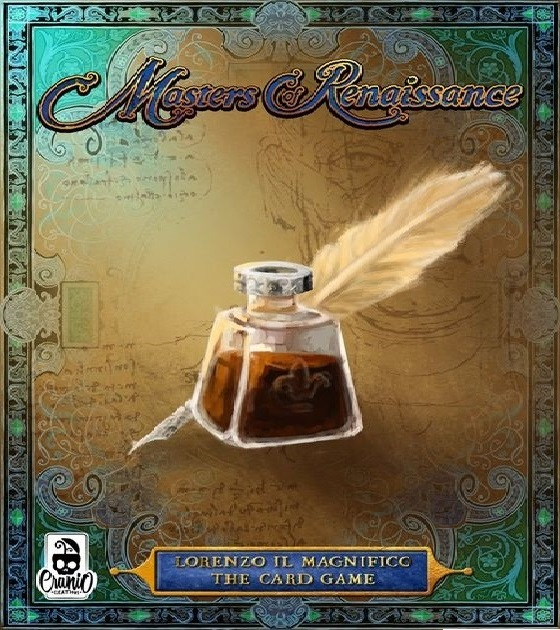
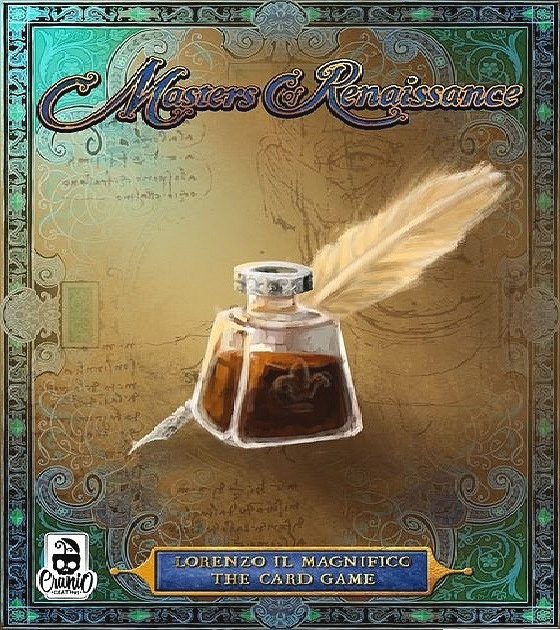
- look other punchboard fix - changed opacity of the background pic for the setup phase and login scenes

Changed region(s): [[0.0, 0.5127, 1.0, 1.0], [0.0, 0.0, 1.0, 0.4825], [0.2732, 0.8444, 0.3036, 0.8746]]

diff --git a/src/main/java/it/polimi/ingsw/client/gui/controllers/PunchboardController.java b/src/main/java/it/polimi/ingsw/client/gui/controllers/PunchboardController.java
@@ -431,7 +431,7 @@ public class PunchboardController extends Controller {
             MenuItem item = null;
 
             if (allusers.get(key).getNickname().equals(UserInterface.getInstance().getMyNickname()))
-                return;
+                continue;
             else
                 item = new MenuItem(allusers.get(key).getNickname());
 
